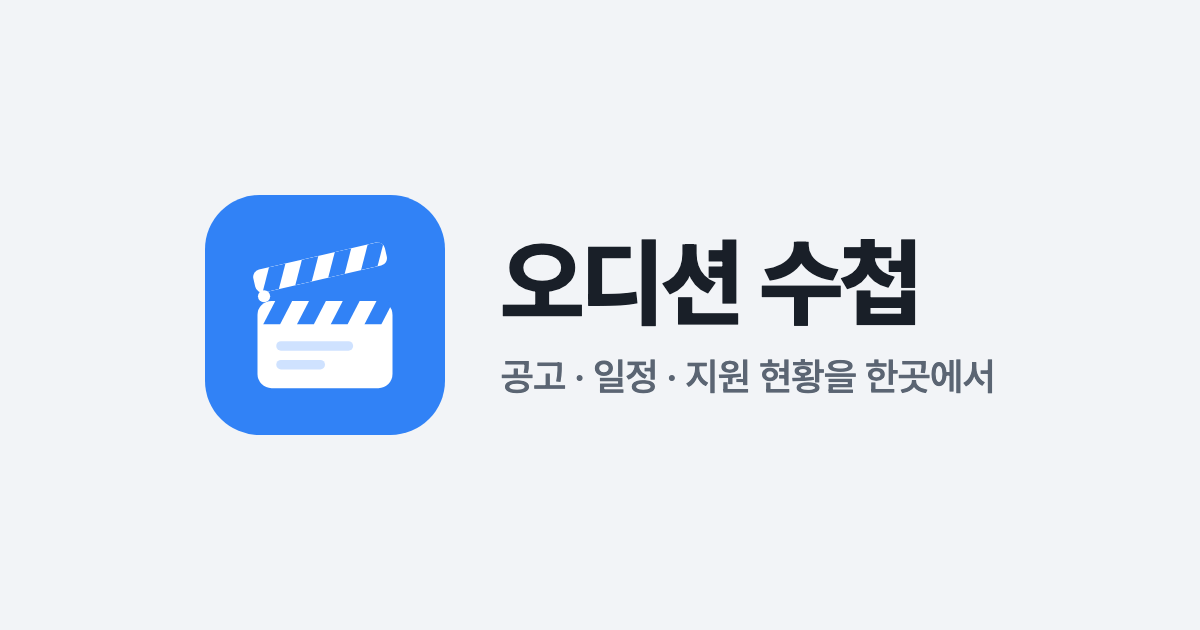
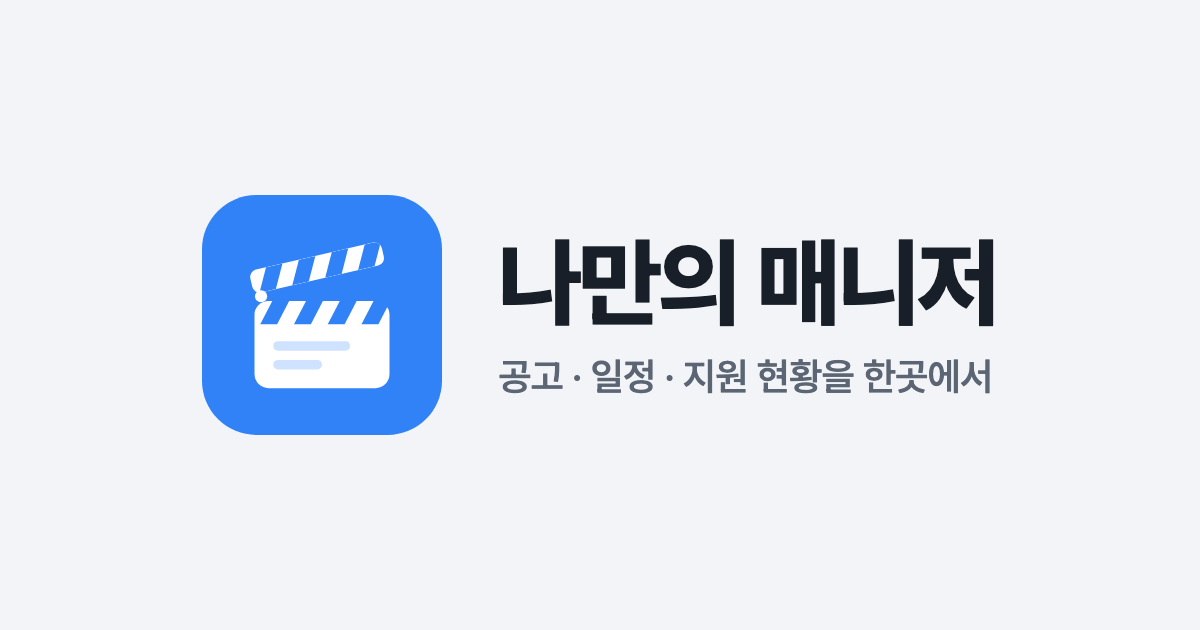
이름을 '나만의 매니저'로

diff --git a/index.html b/index.html
@@ -5,7 +5,7 @@
 <meta name="viewport" content="width=device-width,initial-scale=1,viewport-fit=cover">
 <meta name="robots" content="noindex,nofollow">
 <meta name="referrer" content="no-referrer">
-<title>오디션 수첩</title>
+<title>나만의 매니저</title>
 <meta name="description" content="오디션 공고와 일정, 지원 현황을 한곳에서">
 <meta name="theme-color" content="#F2F4F7" media="(prefers-color-scheme: light)">
 <meta name="theme-color" content="#101317" media="(prefers-color-scheme: dark)">
@@ -13,11 +13,11 @@
 <link rel="icon" href="favicon-32.png" sizes="32x32" type="image/png">
 <link rel="apple-touch-icon" href="apple-touch-icon.png">
 <link rel="manifest" href="manifest.webmanifest">
-<meta name="apple-mobile-web-app-title" content="오디션 수첩">
-<meta name="application-name" content="오디션 수첩">
+<meta name="apple-mobile-web-app-title" content="나만의 매니저">
+<meta name="application-name" content="나만의 매니저">
 <meta property="og:type" content="website">
-<meta property="og:site_name" content="오디션 수첩">
-<meta property="og:title" content="오디션 수첩">
+<meta property="og:site_name" content="나만의 매니저">
+<meta property="og:title" content="나만의 매니저">
 <meta property="og:description" content="오디션 공고와 일정, 지원 현황을 한곳에서">
 <meta property="og:image" content="https://rrryun.github.io/actor-desk/og.png">
 <meta property="og:image:width" content="1200">
@@ -1487,8 +1487,8 @@ function lockView(msg){
     el("button",{class:"btn primary",type:"submit",text:"열기"}));
   f.addEventListener("submit",e=>{e.preventDefault();const k=inp.value.trim();if(!k)return;
     KEY=k;ROLE="manager";try{localStorage.setItem("desk-key",k);localStorage.setItem("desk-role","manager")}catch(_){};start()});
-  document.title="오디션 수첩";
-  document.getElementById("app").replaceChildren(el("div",{class:"wrap"},el("div",{class:"lockhead"},el("img",{class:"logo big",src:"icon.svg",alt:"",width:"72",height:"72"}),el("h1",{text:"오디션 수첩"}),el("p",{class:"lead",text:"공고 · 일정 · 지원 현황을 한곳에서"})),f));
+  document.title="나만의 매니저";
+  document.getElementById("app").replaceChildren(el("div",{class:"wrap"},el("div",{class:"lockhead"},el("img",{class:"logo big",src:"icon.svg",alt:"",width:"72",height:"72"}),el("h1",{text:"나만의 매니저"}),el("p",{class:"lead",text:"공고 · 일정 · 지원 현황을 한곳에서"})),f));
 }
 async function start(){
   if(!KEY){lockView();return}
@@ -1497,7 +1497,7 @@ async function start(){
   catch(e){lockView(e.status===401||e.status===403||e.status===404?"열쇠가 맞지 않거나 기간이 끝났어요. 매니저에게 새 링크를 받아 주세요.":"불러오지 못했어요. 인터넷 연결을 확인하고 다시 열어 주세요.");return}
   isOwner=ROLE==="manager";art={};readOnly=false;booted=true;
   if(isOwner){let m=null;try{m=localStorage.getItem("mgr-mode")}catch(_){}mode=m||"manager"}else mode="actor";
-  document.title=S.profile.name+(mode==="manager"?" 매니저":" 배우님")+" · 오디션 수첩";
+  document.title="나만의 매니저";
   ui.enter=true;render();
 }
 document.addEventListener("visibilitychange",()=>{if(document.visibilityState==="visible")refresh()});
